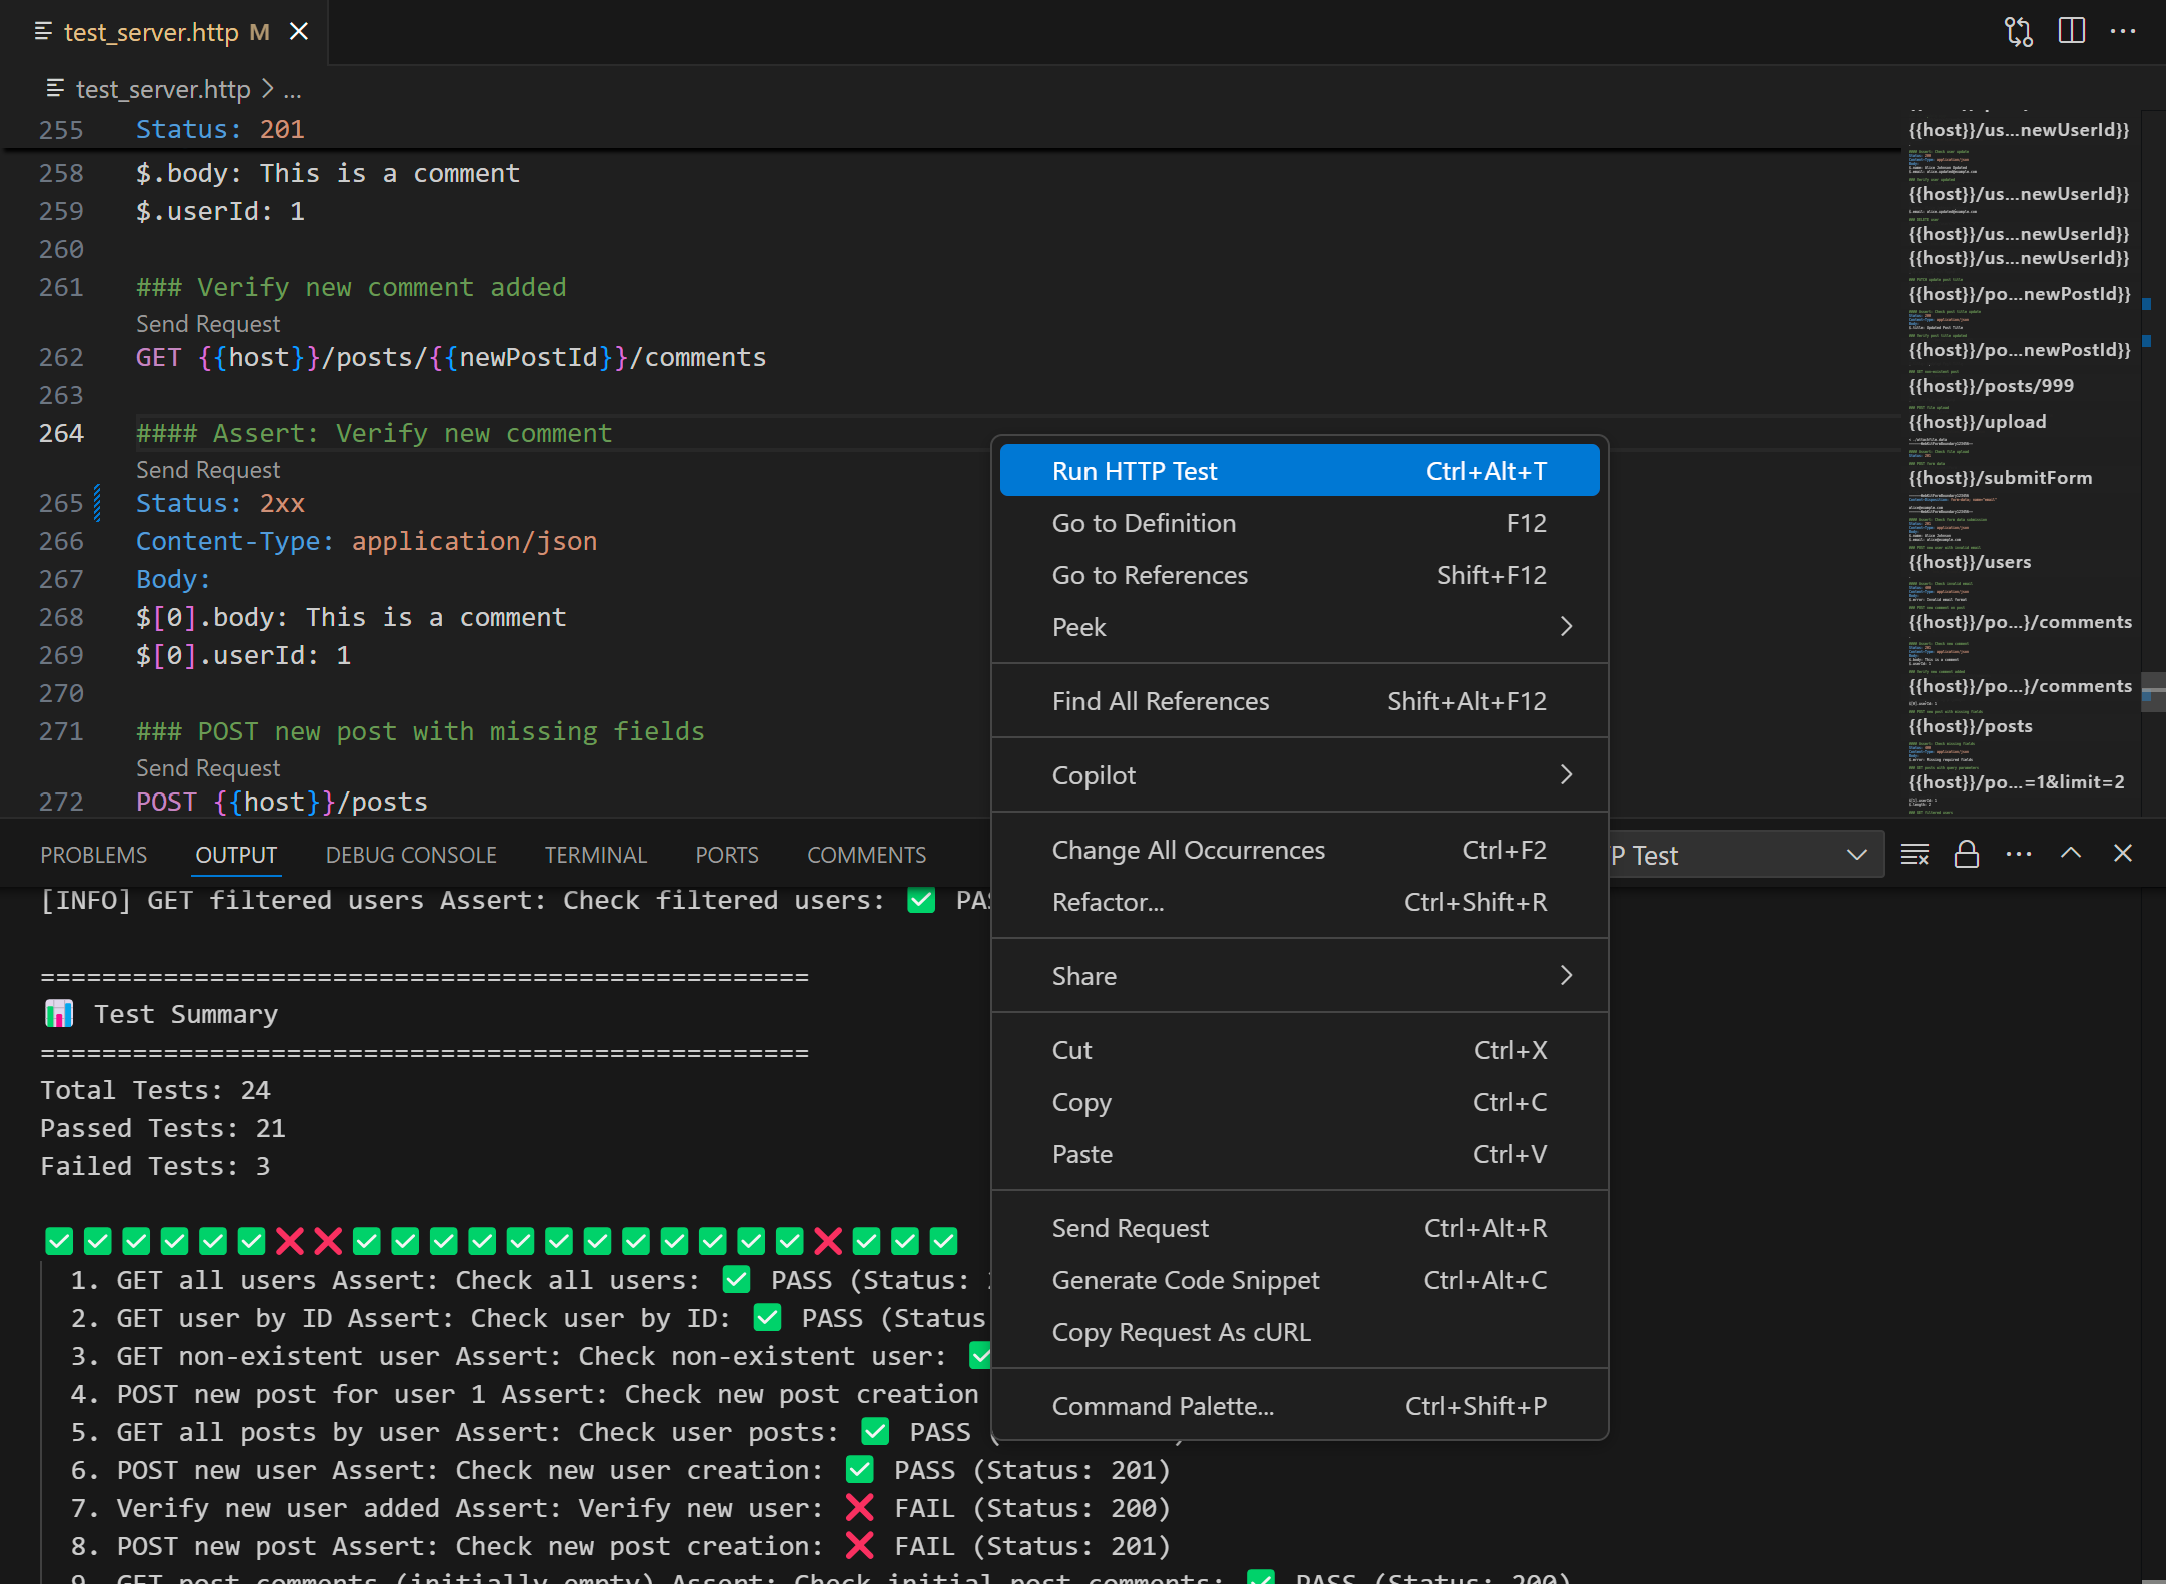
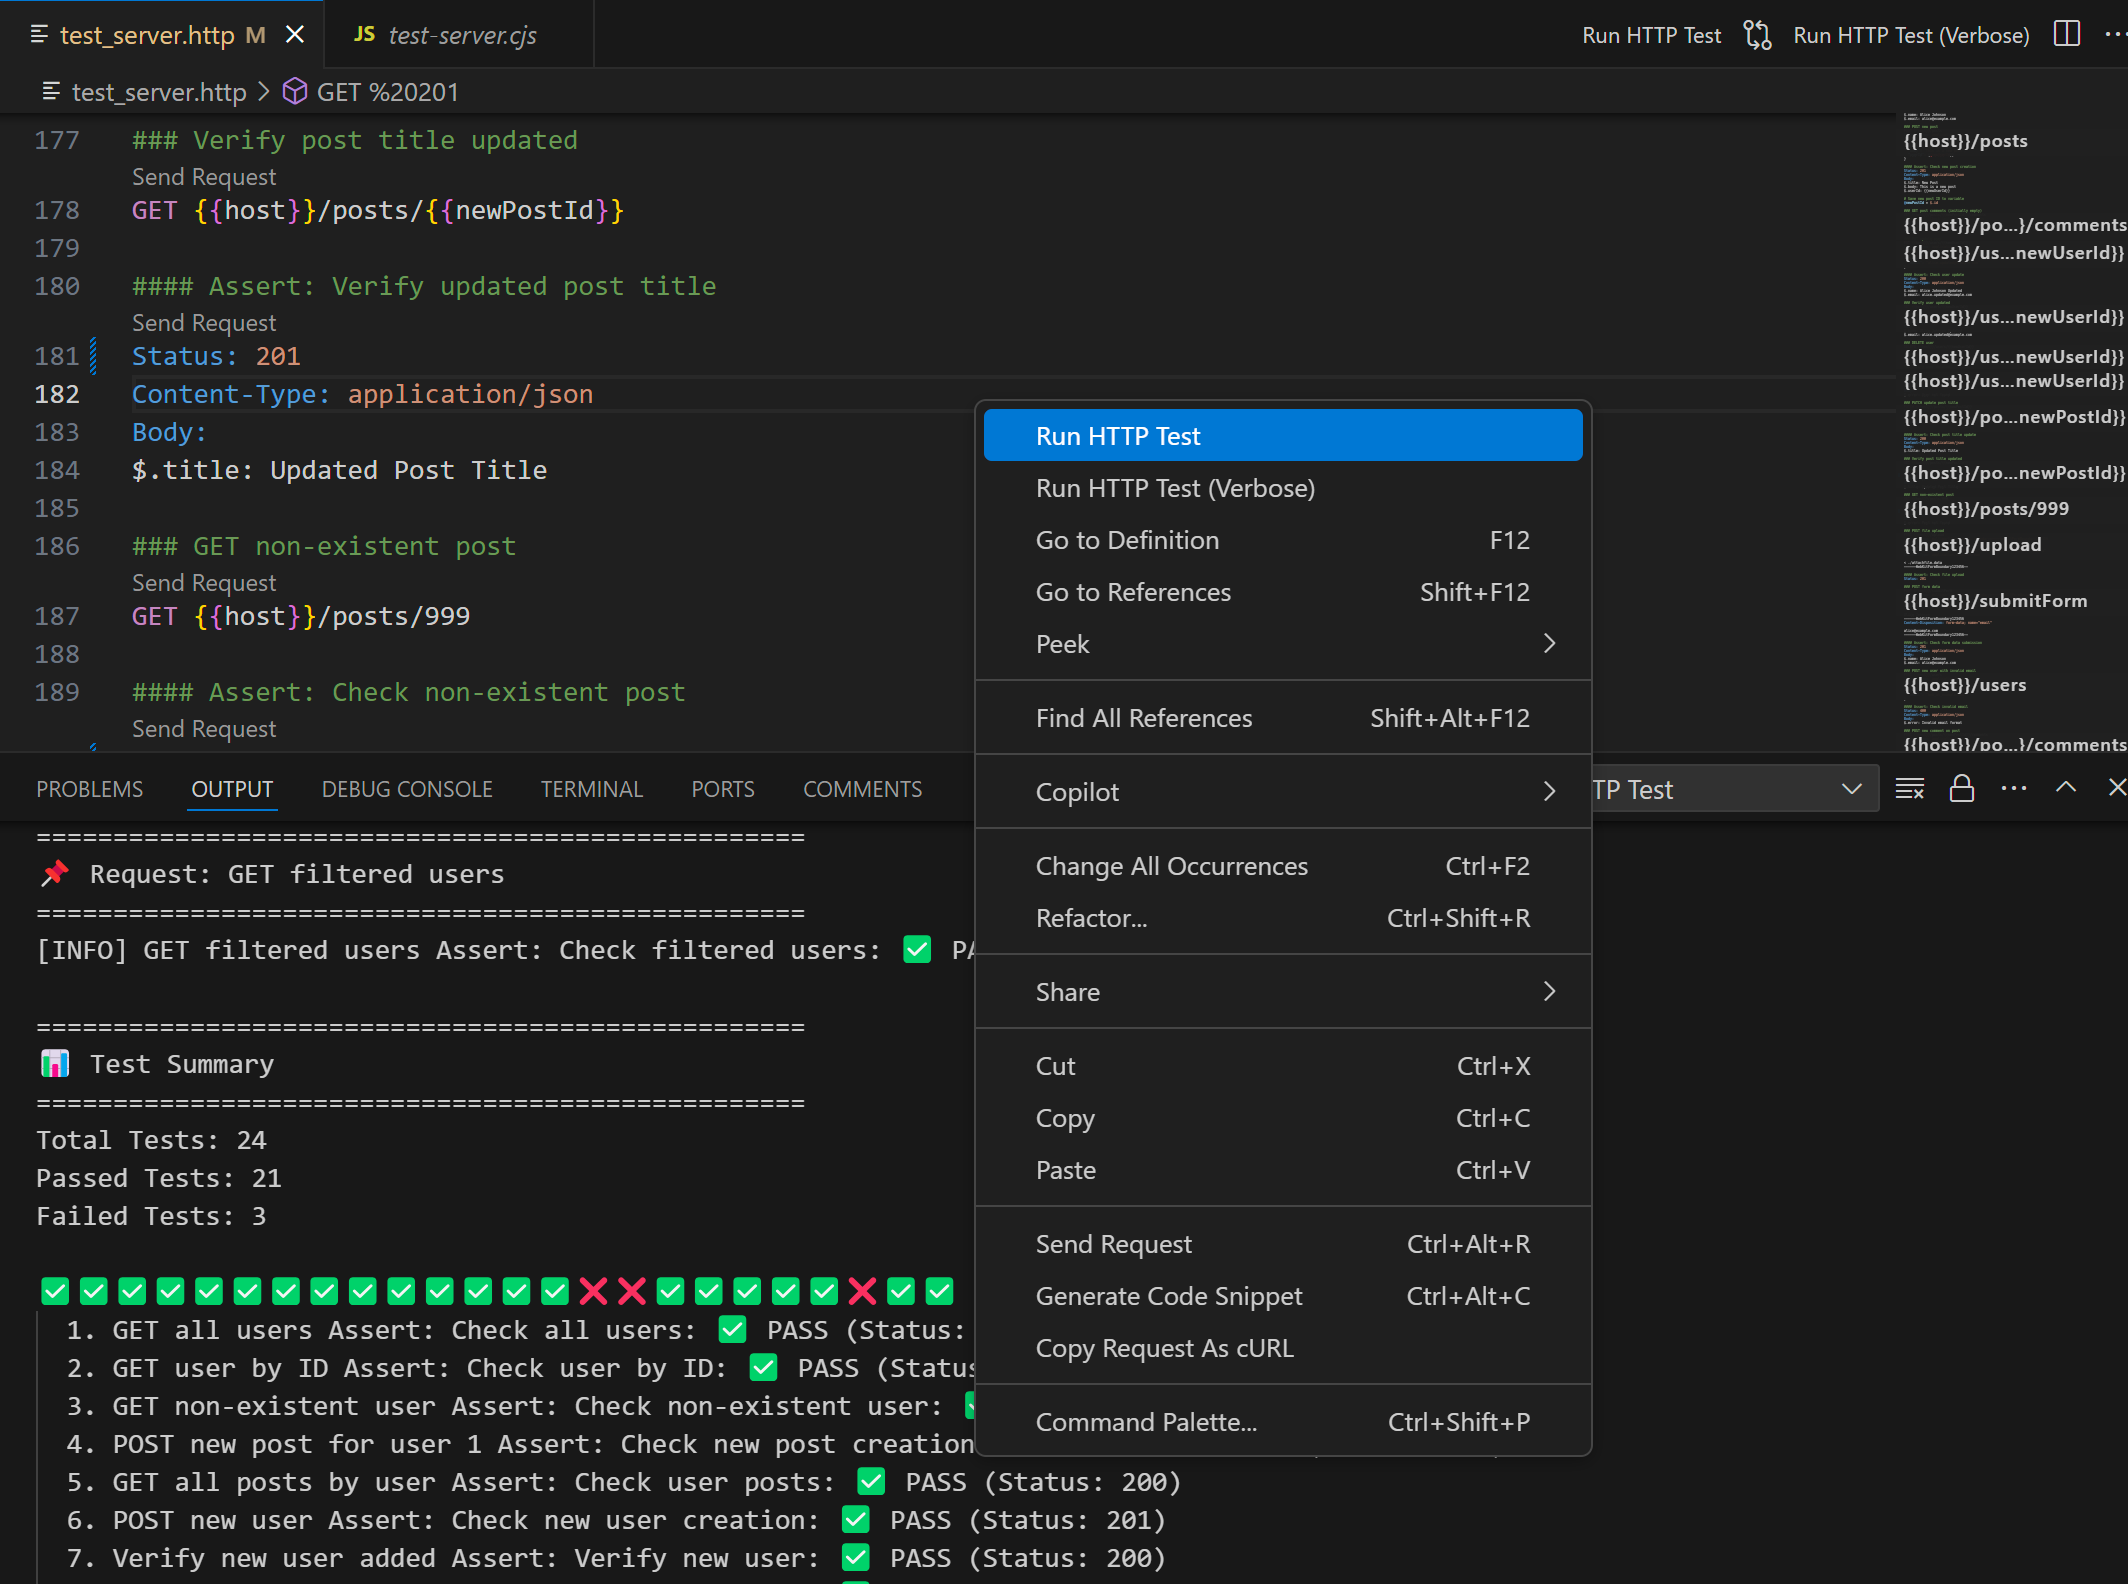
vstool v@1.0.2

diff --git a/vs-tools/src/extension.ts b/vs-tools/src/extension.ts
@@ -4,45 +4,54 @@ import * as path from 'path';
 
 let outputChannel: vscode.OutputChannel;
 
-export function activate(context: vscode.ExtensionContext) {
-  outputChannel = vscode.window.createOutputChannel('HTTP Test');
-
-  let disposable = vscode.commands.registerCommand('extension.http_test.run', (uri: vscode.Uri) => {
+function runHttpTest(uri: vscode.Uri | undefined, verbose: boolean) {
     const filePath = uri ? uri.fsPath : vscode.window.activeTextEditor?.document.fileName;
     if (!filePath || path.extname(filePath) !== '.http') {
-      vscode.window.showErrorMessage('This command can only be run on .http files.');
-      return;
+        vscode.window.showErrorMessage('This command can only be run on .http files.');
+        return;
     }
 
     const workspaceRoot = vscode.workspace.workspaceFolders?.[0].uri.fsPath;
     if (!workspaceRoot) {
-      vscode.window.showErrorMessage('No workspace folder is open.');
-      return;
+        vscode.window.showErrorMessage('No workspace folder is open.');
+        return;
     }
 
     outputChannel.clear();
     outputChannel.show(true);
     outputChannel.appendLine('Running HTTP Test...');
 
-    exec(`npx http-test "${filePath}"`, { cwd: workspaceRoot }, (err, stdout, stderr) => {
-      if (stdout) {
-        outputChannel.appendLine(stdout);
-      }
-      if (stderr) {
-        outputChannel.appendLine(`Stderr: ${stderr}`);
-      }
-      if (err) {
-        outputChannel.appendLine(`Error: ${err.message}`);
-      }
-      outputChannel.appendLine('HTTP Test completed.');
+    const verboseFlag = verbose ? '--verbose' : '';
+    exec(`npx http-test "${filePath}" ${verboseFlag}`, { cwd: workspaceRoot }, (err, stdout, stderr) => {
+        if (stdout) {
+            outputChannel.appendLine(stdout);
+        }
+        if (stderr) {
+            outputChannel.appendLine(`Stderr: ${stderr}`);
+        }
+        if (err) {
+            outputChannel.appendLine(`Error: ${err.message}`);
+        }
+        outputChannel.appendLine('HTTP Test completed.');
     });
-  });
+}
 
-  context.subscriptions.push(disposable);
+export function activate(context: vscode.ExtensionContext) {
+    outputChannel = vscode.window.createOutputChannel('HTTP Test');
+
+    let disposableRun = vscode.commands.registerCommand('extension.http_test.run', (uri: vscode.Uri) => {
+        runHttpTest(uri, false);
+    });
+
+    let disposableRunVerbose = vscode.commands.registerCommand('extension.http_test.runVerbose', (uri: vscode.Uri) => {
+        runHttpTest(uri, true);
+    });
+
+    context.subscriptions.push(disposableRun, disposableRunVerbose);
 }
 
 export function deactivate() {
-  if (outputChannel) {
-    outputChannel.dispose();
-  }
+    if (outputChannel) {
+        outputChannel.dispose();
+    }
 }
